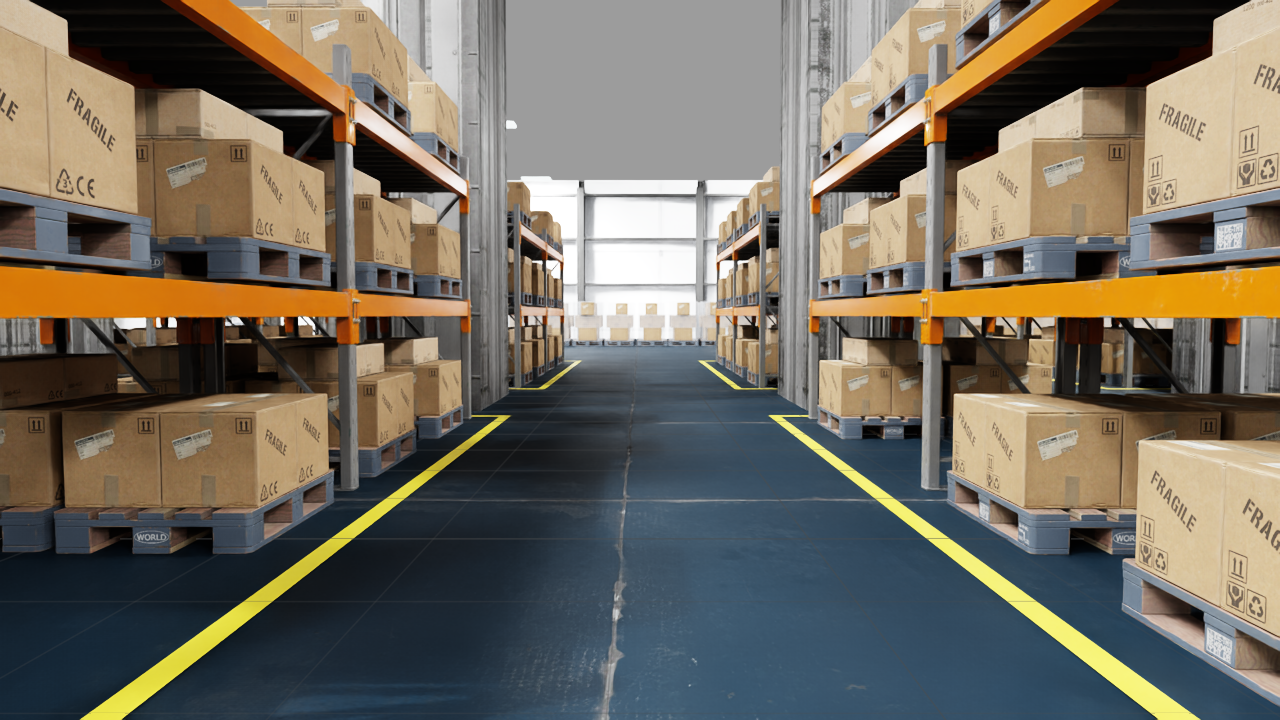
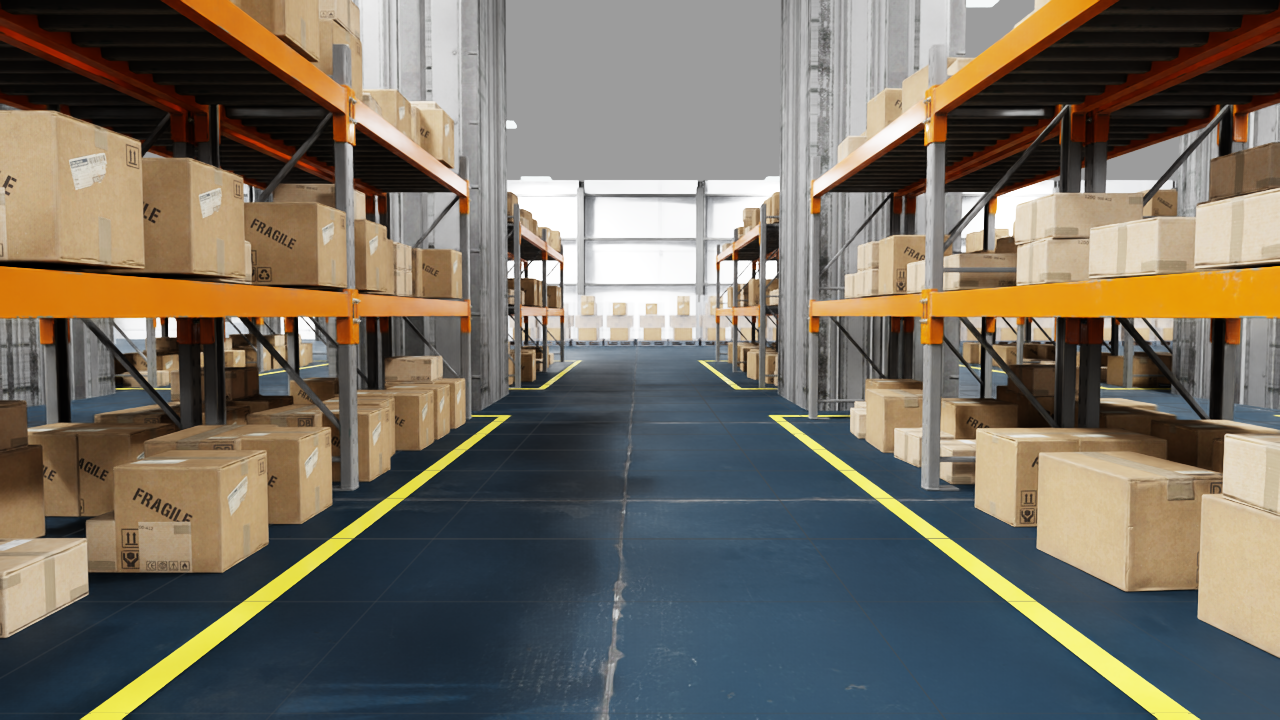
feat: 운영 모델 반영 — 파렛트 재고(4단 만재) + 랙 피킹 낱박스
- 바닥 파렛트 더미: 교차 적재 최대 4단(~2.0m, 테이퍼 상단) — '재고 높게 잔뜩'
- 랙: 유닛로드 대신 피킹 낱박스 1,923점 — 슬롯별 채움 편차(45~90%)·간격·
  지터·소적재·뒷줄 박스로 '어느 정도 찬' 피킹 스테이지 (빔 2단 1.35/2.7
  유지 — 층간 0.97m 여유로 관통 원천 차단)
- V&V: 재현율 100% · 오검출 0셀

diff --git a/sil/t3_warehouse/build_scene.py b/sil/t3_warehouse/build_scene.py
@@ -479,6 +479,10 @@ def add_pallet_stack(stage, path, x, y, rz, layers):
         sub("l3a", BOX_B, 0, -0.25, z)
         sub("l3b", BOX_B, 0, 0.25, z)
         z += 0.50
+    if layers >= 4:                            # 최상단 테이퍼 층 — 재고 만재
+        sub("l4a", BOX_C, 0, -0.25, z)
+        sub("l4b", BOX_C, 0, 0.25, z)
+        z += 0.25
     wrap = add_box(stage, f"{path}/wrap", -0.56, -0.47, 1.12, 0.94, 0.16, z + 0.03,
                    collide=False)
     UsdShade.MaterialBindingAPI.Apply(wrap.GetPrim()).Bind(wrap_mtl)
@@ -489,7 +493,7 @@ n_stack = 0
 prects = greedy_rects(grid == 6)
 for i, (r0, c0, hh, ww) in enumerate(prects):
     b = add_box(stage, f"/World/pallets/col_{i}", c0 * CELL, r0 * CELL,
-                ww * CELL, hh * CELL, 0.0, 1.85)
+                ww * CELL, hh * CELL, 0.0, 2.05)
     UsdGeom.Imageable(b.GetPrim()).MakeInvisible()
     x0, y0, w_m, h_m = c0 * CELL, r0 * CELL, ww * CELL, hh * CELL
     horiz = w_m >= h_m                        # 장변 방향으로 파렛트 장축 정렬
@@ -505,8 +509,9 @@ for i, (r0, c0, hh, ww) in enumerate(prects):
             d = od + PALLET_D * (k + 0.5) + (rnd(i, j, k, "d") - 0.5) * 0.06
             px, py = (x0 + a, y0 + d) if horiz else (x0 + d, y0 + a)
             rz = (0.0 if horiz else 90.0) + (rnd(i, j, k, "r") - 0.5) * 7
+            r = rnd(i, j, k, "t")
             add_pallet_stack(stage, f"/World/pallets/s{i}_{j}_{k}", px, py, rz,
-                             layers=3 if rnd(i, j, k, "t") > 0.15 else 2)
+                             layers=4 if r > 0.45 else (3 if r > 0.1 else 2))
             n_stack += 1
 print(f"[2b] 바닥 파렛트 블록 {len(prects)}rect → 래핑 더미 {n_stack}개", flush=True)
 
@@ -535,9 +540,11 @@ for bi, (xc, ys, n_units) in enumerate(rack_units):
 print(f"[3] 렉 조립: 프레임 {n_frame} + 데크 {n_shelf}", flush=True)
 
 # 3b) 렉 화물 (시각 전용, 랙 풋프린트 안 — 그리드 값2 그대로):
-#     파렛트 랙 방식 — 전 층(바닥+빔 2단)에 파렛트 유닛로드
-#     (파렛트 + 2x2 박스 + 토퍼) 만재. 낱박스 진열은 층간 관통 실측으로 폐기.
+#     피킹 스테이지 — 파렛트 재고에서 옮겨온 낱박스가 선반에 "어느 정도"
+#     차 있는 모습(슬롯별 채움 편차, 간격·지터·소적재). 단높이 1.35/2.7이라
+#     낱박스+소적재(≤0.75m)도 층간 여유 0.97m로 관통 없음.
 #     데크 상판은 배치 z +0.03 (컴포즈 bbox 실측: 데크 z -0.345~+0.025).
+BOX_KIND = ((BOX_A, 0.70, 0.50), (BOX_B, 0.50, 0.50), (BOX_C, 0.50, 0.25))
 LOAD_Z = (0.0,) + tuple(dz + 0.03 for dz in DECK_Z)
 n_cargo = 0
 for bi, (xc, ys, n_units) in enumerate(rack_units):
@@ -549,24 +556,30 @@ for bi, (xc, ys, n_units) in enumerate(rack_units):
             root = f"/World/racks/cargo_b{bi}_l{line}_u{u}"
             UsdGeom.Xform.Define(stage, root)
             for li, lz in enumerate(LOAD_Z):
-                for pi, py in enumerate((yc - 1.0, yc + 1.0)):  # 층당 유닛로드 2
-                    if rnd(bi, line, u, li, pi) < 0.04:         # 빈 자리 4%
-                        continue
-                    jy = py + (rnd(bi, line, u, li, pi, "j") - 0.5) * 0.06
-                    add_asset(stage, f"{root}/p{li}_{pi}", PALLET_USD, lx, jy,
-                              z=lz, rot_z=90.0, instance=True)
+                dens = 0.45 + rnd(bi, line, u, li, "d") * 0.45  # 슬롯별 채움 편차
+                yy = yc - 1.85
+                while True:
+                    r = rnd(bi, line, u, li, round(yy, 2))
+                    usd, wid, hgt = BOX_KIND[int(r * 3) % 3]
+                    yy += wid / 2
+                    if yy + wid / 2 > yc + 1.95:
+                        break
+                    key = f"{li}_{int((yy + 2) * 100)}"
+                    bx = lx + (rnd(bi, li, round(yy, 2), "x") - 0.5) * 0.3
+                    add_asset(stage, f"{root}/d{key}", usd, bx, yy, z=lz,
+                              rot_z=90.0 + (rnd(bi, li, round(yy, 2), "r") - 0.5) * 14,
+                              instance=True)
                     n_cargo += 1
-                    for qi, (qx, qy) in enumerate(((-0.25, -0.25), (-0.25, 0.25),
-                                                   (0.25, -0.25), (0.25, 0.25))):
-                        add_asset(stage, f"{root}/b{li}_{pi}_{qi}", BOX_B,
-                                  lx + qx, jy + qy, z=lz + 0.21, instance=True)
+                    if rnd(bi, li, round(yy, 2), "s") > 0.78:   # 가끔 2단 소적재
+                        add_asset(stage, f"{root}/s{key}", BOX_C, bx, yy,
+                                  z=lz + hgt, rot_z=90.0, instance=True)
                         n_cargo += 1
-                    if rnd(bi, line, u, li, pi, "t") > 0.15:    # 토퍼 85%
-                        for ti, ty in enumerate((-0.25, 0.25)):
-                            add_asset(stage, f"{root}/t{li}_{pi}_{ti}", BOX_C,
-                                      lx, jy + ty, z=lz + 0.71, instance=True)
-                            n_cargo += 1
-print(f"[3b] 렉 화물: 파렛트 유닛로드 (파렛트·박스 {n_cargo}점)", flush=True)
+                    if rnd(bi, li, round(yy, 2), "b") > 0.7:    # 가끔 뒷줄 박스
+                        add_asset(stage, f"{root}/r{key}", BOX_B, lx + 0.27, yy,
+                                  z=lz, rot_z=90.0, instance=True)
+                        n_cargo += 1
+                    yy += wid / 2 + 0.12 + (1 - dens) * 0.9 * rnd(bi, li, round(yy, 2), "g")
+print(f"[3b] 렉 화물: 피킹 낱박스 {n_cargo}점", flush=True)
 
 # 바닥 마킹 — 렉 세그먼트 안전선(황) + 스테이션 마킹(청): 시인성 + 레이아웃 데이터의 시각화
 UsdGeom.Xform.Define(stage, "/World/markings")
